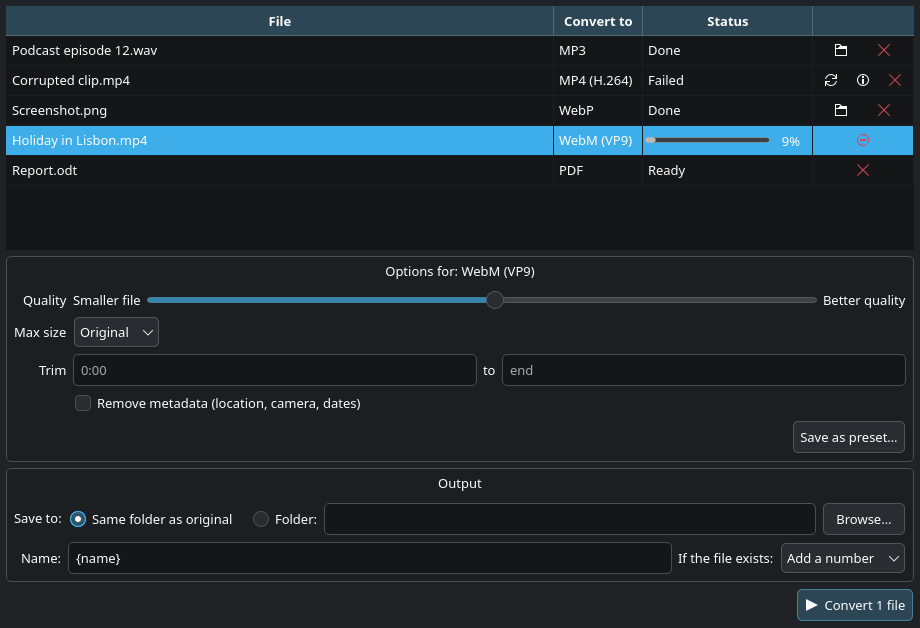
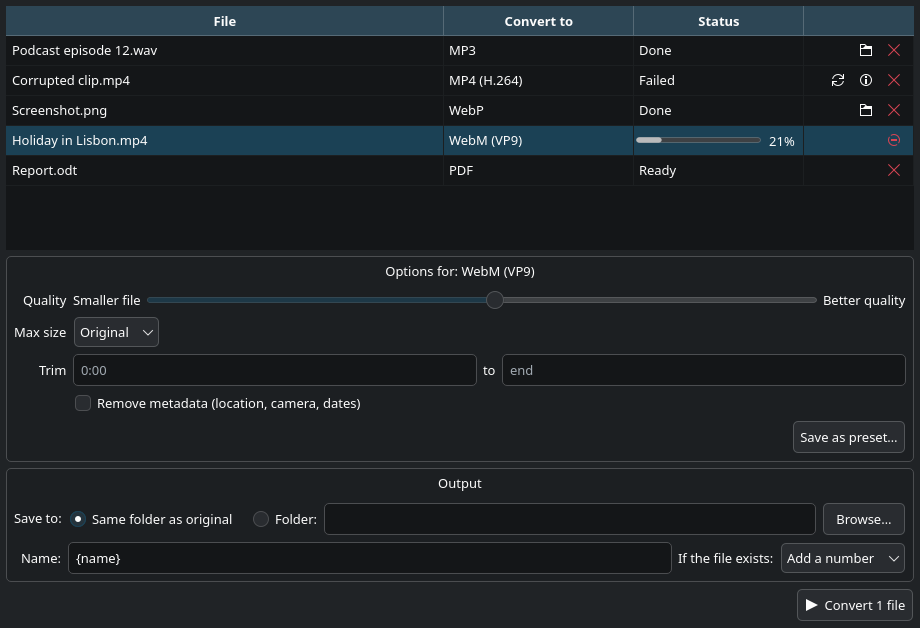
fix: address final review findings
Keep install.sh's Dolphin menus when the app starts, accept every
format Dolphin offers by using the shared MIME database, fail trims
that start past the end instead of trashing the original, and draw row
buttons in a delegate so adding thousands of files no longer freezes
the window.

diff --git a/fileconverter/gui/main_window.py b/fileconverter/gui/main_window.py
@@ -1,11 +1,11 @@
 """The File Converter window: queue table, options and output settings."""
 
-from collections.abc import Sequence
+from collections.abc import Callable, Sequence
 from dataclasses import replace
 from datetime import date
 from pathlib import Path
 
-from PySide6.QtCore import QModelIndex, Qt
+from PySide6.QtCore import QEvent, QModelIndex, QRect, Qt
 from PySide6.QtGui import QAction, QGuiApplication, QIcon, QStandardItem, QStandardItemModel
 from PySide6.QtWidgets import (QAbstractItemView, QApplication, QButtonGroup, QComboBox,
                                QDialog, QDialogButtonBox, QFileDialog, QFormLayout, QGroupBox,
@@ -13,7 +13,7 @@ from PySide6.QtWidgets import (QAbstractItemView, QApplication, QButtonGroup, QC
                                QMainWindow, QMessageBox, QPlainTextEdit, QPushButton,
                                QRadioButton, QSizePolicy,
                                QStackedWidget, QStyle, QStyledItemDelegate,
-                               QStyleOptionProgressBar, QTableView, QToolBar, QToolButton,
+                               QStyleOptionProgressBar, QTableView, QToolBar, QToolTip,
                                QVBoxLayout, QWidget)
 
 from .. import naming
@@ -89,6 +89,45 @@ class _ProgressDelegate(QStyledItemDelegate):
         QApplication.style().drawControl(QStyle.CE_ProgressBar, bar, painter)
 
 
+class _ActionsDelegate(QStyledItemDelegate):
+    """Row buttons drawn by the delegate. Real widgets per row made every
+    insert re-lay out all rows, so big folders took minutes to add."""
+
+    SIZE = 28
+
+    def __init__(self, window: "MainWindow"):
+        super().__init__(window)
+        self.window = window
+
+    def _buttons(self, rect: QRect, index: QModelIndex):
+        actions = self.window.row_actions(self.window.model.job_id(index.row()))
+        right = rect.right() - 4
+        for n, action in enumerate(reversed(actions)):
+            x = right - (n + 1) * self.SIZE
+            yield QRect(x, rect.center().y() - self.SIZE // 2, self.SIZE, self.SIZE), action
+
+    def paint(self, painter, option, index):
+        super().paint(painter, option, index)
+        for rect, (_, icon, _) in self._buttons(option.rect, index):
+            QIcon.fromTheme(icon).paint(painter, rect.adjusted(6, 6, -6, -6))
+
+    def editorEvent(self, event, model, option, index):
+        if event.type() == QEvent.MouseButtonRelease and event.button() == Qt.LeftButton:
+            for rect, (_, _, slot) in self._buttons(option.rect, index):
+                if rect.contains(event.position().toPoint()):
+                    slot()
+                    return True
+        return super().editorEvent(event, model, option, index)
+
+    def helpEvent(self, event, view, option, index):
+        if event.type() == QEvent.ToolTip:
+            for rect, (tip, _, _) in self._buttons(option.rect, index):
+                if rect.contains(event.pos()):
+                    QToolTip.showText(event.globalPos(), tip, view)
+                    return True
+        return super().helpEvent(event, view, option, index)
+
+
 class MainWindow(QMainWindow):
     def __init__(self, queue: JobQueue, store: Store, tools: dict[str, bool],
                  parent: QWidget | None = None):
@@ -126,14 +165,15 @@ class MainWindow(QMainWindow):
                                    | QAbstractItemView.EditKeyPressed)
         self.table.setItemDelegateForColumn(COL_PRESET, _PresetDelegate(self))
         self.table.setItemDelegateForColumn(COL_STATUS, _ProgressDelegate(self))
+        self.table.setItemDelegateForColumn(COL_ACTIONS, _ActionsDelegate(self))
         self.table.verticalHeader().hide()
         header = self.table.horizontalHeader()
         header.setSectionResizeMode(COL_FILE, QHeaderView.Stretch)
-        for col in (COL_PRESET, COL_ACTIONS):
-            header.setSectionResizeMode(col, QHeaderView.ResizeToContents)
-        # Fixed width: sizing to the text would squash the progress bar.
-        header.setSectionResizeMode(COL_STATUS, QHeaderView.Fixed)
-        self.table.setColumnWidth(COL_STATUS, 170)
+        # Fixed widths: ResizeToContents re-measures every row on each insert,
+        # which froze the window for minutes on folders of thousands of files.
+        for col, width in ((COL_PRESET, 190), (COL_STATUS, 170), (COL_ACTIONS, 110)):
+            header.setSectionResizeMode(col, QHeaderView.Fixed)
+            self.table.setColumnWidth(col, width)
         self.table.setMinimumHeight(220)
 
         hint = QLabel("Drop files or folders here, or click “Add files…”",
@@ -429,37 +469,31 @@ class MainWindow(QMainWindow):
     # Queue events
 
     def _job_added(self, job_id: int) -> None:
-        self._update_actions(job_id)
+        self._shown_state[job_id] = self.queue.job(job_id).state
         self._refresh()
 
     def _job_changed(self, job_id: int) -> None:
-        if self.queue.job(job_id).state is not self._shown_state.get(job_id):
-            self._update_actions(job_id)
+        state = self.queue.job(job_id).state
+        if state is not self._shown_state.get(job_id):
+            self._shown_state[job_id] = state
             self._refresh()
 
-    def _update_actions(self, job_id: int) -> None:
+    def row_actions(self, job_id: int) -> list[tuple[str, str, Callable[[], None]]]:
+        """Buttons for a row as (tooltip, icon name, action), left to right."""
         job = self.queue.job(job_id)
-        self._shown_state[job_id] = job.state
-        cell = QWidget()
-        row = QHBoxLayout(cell)
-        row.setContentsMargins(2, 0, 2, 0)
-
-        def button(text: str, icon: str, slot, tip: str = "") -> None:
-            b = QToolButton(text=text, icon=QIcon.fromTheme(icon), toolTip=tip or text,
-                            autoRaise=True)
-            b.clicked.connect(slot)
-            row.addWidget(b)
-
+        actions = []
         if job.state is JobState.DONE:
-            button("Open", "document-open-folder", lambda: show_in_folder(job.outputs[0]),
-                   "Show in folder")
+            actions.append(("Show in folder", "document-open-folder",
+                            lambda: show_in_folder(job.outputs[0])))
         elif job.state is JobState.FAILED:
-            button("Retry", "view-refresh", lambda: self.queue.retry(job_id))
-            button("?", "help-about", lambda: self.show_log(job_id), "Show error details")
-        active = job.state in (JobState.WAITING, JobState.RUNNING)
-        button("✕", "process-stop" if active else "list-remove",
-               lambda: self.queue.remove(job_id), "Cancel" if active else "Remove")
-        self.table.setIndexWidget(self.model.index(self.model.row_of(job_id), COL_ACTIONS), cell)
+            actions.append(("Retry", "view-refresh", lambda: self.queue.retry(job_id)))
+            actions.append(("Show error details", "help-about",
+                            lambda: self.show_log(job_id)))
+        if job.state in (JobState.WAITING, JobState.RUNNING):
+            actions.append(("Cancel", "process-stop", lambda: self.queue.cancel(job_id)))
+        else:
+            actions.append(("Remove", "list-remove", lambda: self.queue.remove(job_id)))
+        return actions
 
     def _refresh(self) -> None:
         self.stack.setCurrentIndex(1 if self.model.rowCount() else 0)

diff --git a/tests/test_main_window.py b/tests/test_main_window.py
@@ -31,6 +31,19 @@ def test_folder_expands_recursively(window, tmp_path, _png):
     assert [window.queue.job(i).src.name for i in ids] == ["x.png"]
 
 
+def test_large_folder_adds_quickly(window, tmp_path):
+    import time
+    folder = tmp_path / "many"
+    folder.mkdir()
+    for n in range(800):
+        (folder / f"img{n:04d}.png").touch()
+    window.show()
+    started = time.monotonic()
+    ids = window.add_files([folder])
+    elapsed = time.monotonic() - started
+    assert len(ids) == 800 and elapsed < 4, f"took {elapsed:.1f} s"
+
+
 def test_preset_argument_starts_immediately(qtbot, window, sample_wav):
     with qtbot.waitSignal(window.queue.drained, timeout=30_000):
         [jid] = window.add_files([sample_wav], "audio:flac", start=True)
@@ -147,9 +160,24 @@ def test_failed_job_shows_retry(qtbot, window, tmp_path):
     bad = tmp_path / "bad.mp4"
     bad.write_bytes(b"junk")
     with qtbot.waitSignal(window.queue.drained, timeout=30_000):
-        window.add_files([bad], "video:mp4", start=True)
+        [jid] = window.add_files([bad], "video:mp4", start=True)
     assert window.model.data(window.model.index(0, 2)) == "Failed"
     assert window.model.data(window.model.index(0, 2), Qt.ToolTipRole)
+    assert [name for name, _, _ in window.row_actions(jid)] == ["Retry", "Show error details",
+                                                               "Remove"]
+
+
+def test_row_buttons_respond_to_clicks(qtbot, window, sample_wav):
+    from PySide6.QtCore import QPoint
+    from PySide6.QtTest import QTest
+
+    [jid] = window.add_files([sample_wav])
+    window.show()
+    assert [name for name, _, _ in window.row_actions(jid)] == ["Remove"]
+    rect = window.table.visualRect(window.model.index(0, 3))
+    target = QPoint(rect.right() - 10, rect.center().y())  # rightmost button: Remove
+    QTest.mouseClick(window.table.viewport(), Qt.LeftButton, pos=target)
+    assert window.queue.jobs() == []
 
 
 def test_close_while_converting_asks_then_stops(qtbot, window, long_mp4, monkeypatch):

diff --git a/fileconverter/filetypes.py b/fileconverter/filetypes.py
@@ -1,12 +1,13 @@
 """Which kind of input a file is, and the MIME types each kind covers."""
 
-import mimetypes
 from pathlib import Path
+
+from PySide6.QtCore import QMimeDatabase, QMimeType
 
 KINDS = ("audio", "video", "image", "document", "spreadsheet", "presentation", "pdf")
 
-# Checked before mimetypes: office formats have no common MIME prefix, and
-# some media types are missing from Python's table on some systems.
+# Common extensions, checked before the MIME database for speed and so the
+# usual formats work even where shared-mime-info is incomplete.
 _EXTENSIONS = {
     **dict.fromkeys(("doc", "docx", "odt", "rtf"), "document"),
     **dict.fromkeys(("xls", "xlsx", "ods", "csv"), "spreadsheet"),
@@ -46,14 +47,23 @@ MIME_TYPES = {
 }
 
 
+def _matches(mime: QMimeType, pattern: str) -> bool:
+    names = [mime.name(), *mime.allAncestors()]
+    if pattern.endswith("/*"):
+        return any(n.startswith(pattern[:-1]) for n in names)
+    return pattern in names
+
+
 def kind_of(path: Path) -> str | None:
-    """Return the input kind of ``path`` from its name, or None if unsupported."""
+    """Return the input kind of ``path``, or None if unsupported."""
     kind = _EXTENSIONS.get(path.suffix.lower().lstrip("."))
     if kind:
         return kind
-    mime, _ = mimetypes.guess_type(path.name)
-    if mime:
-        prefix = mime.split("/", 1)[0]
-        if prefix in ("audio", "video", "image"):
-            return prefix
+    # The same shared-mime-info database Dolphin uses to pick the menus, so
+    # anything it offers to convert (.m4b, camera RAW, ...) is accepted.
+    mode = QMimeDatabase.MatchDefault if path.is_file() else QMimeDatabase.MatchExtension
+    mime = QMimeDatabase().mimeTypeForFile(str(path), mode)
+    for kind in KINDS:
+        if any(_matches(mime, pattern) for pattern in MIME_TYPES[kind]):
+            return kind
     return None

diff --git a/tests/test_menus.py b/tests/test_menus.py
@@ -47,7 +47,16 @@ def test_hidden_presets_left_out(tmp_path):
     assert "audio:wav" not in render_menus(st.all_presets())["fileconverter-audio.desktop"]
 
 
-def test_sync_writes_executable_files_then_cleans_up(tmp_path):
+def _system_dir(tmp_path, with_copy):
+    system = tmp_path / "system"
+    if with_copy:
+        subprocess.run([sys.executable, "-m", "fileconverter.menus",
+                        str(system / "kio" / "servicemenus")], check=True)
+    return system
+
+
+def test_sync_writes_executable_files_then_cleans_up(tmp_path, monkeypatch):
+    monkeypatch.setenv("XDG_DATA_DIRS", str(_system_dir(tmp_path, with_copy=True)))
     st = load(tmp_path / "p.json")
     out = tmp_path / "menus"
     st.add_user_preset("Podcast", BUILTIN_BY_ID["audio:mp3"], {})
@@ -57,6 +66,16 @@ def test_sync_writes_executable_files_then_cleans_up(tmp_path):
     st.user_presets.clear()
     sync_user_menus(st, out)
     assert not list(out.glob("fileconverter-*.desktop"))
+
+
+def test_sync_keeps_menus_when_there_is_no_system_copy(tmp_path, monkeypatch):
+    # install.sh users: the user directory holds the only copy of the menus.
+    monkeypatch.setenv("XDG_DATA_DIRS", str(_system_dir(tmp_path, with_copy=False)))
+    out = tmp_path / "menus"
+    subprocess.run([sys.executable, "-m", "fileconverter.menus", str(out)], check=True)
+    sync_user_menus(load(tmp_path / "p.json"), out)
+    assert (out / "fileconverter-open.desktop").exists()
+    assert (out / "fileconverter-video.desktop").exists()
 
 
 def test_write_removes_stale_files(tmp_path):

diff --git a/fileconverter/queue.py b/fileconverter/queue.py
@@ -14,7 +14,7 @@ from PySide6.QtCore import QFile, QObject, QProcess, QTimer, Signal
 
 from . import naming
 from .commands import build, parse_duration, parse_progress, probe_argv
-from .options import Options
+from .options import Options, format_time
 from .presets import Preset
 
 
@@ -292,6 +292,14 @@ class JobQueue(QObject):
             self._finish(jid, JobState.CANCELLED)
         elif probe:
             run.duration = parse_duration(run.stdout) if code == 0 else None
+            start = Options.from_dict(job.preset.options).trim_start or 0
+            if run.duration is not None and start >= run.duration:
+                # ffmpeg would "succeed" with an empty file; with Trash on
+                # that would cost the user the original.
+                job.error = (f"Trim start ({format_time(start)}) is past the end of the "
+                             f"file ({format_time(run.duration)})")
+                self._finish(jid, JobState.FAILED)
+                return
             self._start_process(jid, run.argv, probe=False)
         elif code != 0:
             lines = [ln for ln in job.log.splitlines() if ln.strip()]

diff --git a/fileconverter/menus.py b/fileconverter/menus.py
@@ -92,10 +92,21 @@ def user_menu_dir() -> Path:
     return Path(base) / "kio" / "servicemenus"
 
 
+def _system_menus_installed() -> bool:
+    dirs = os.environ.get("XDG_DATA_DIRS") or "/usr/local/share:/usr/share"
+    return any((Path(d) / "kio" / "servicemenus" / "fileconverter-open.desktop").exists()
+               for d in dirs.split(":") if d)
+
+
 def sync_user_menus(st: Store, directory: Path | None = None) -> None:
-    """Shadow the system menus with the user's presets, or remove the shadow."""
+    """Write the user's menus, or drop them when the packaged ones suffice.
+
+    With a system-wide install (the AUR package) user copies only exist to
+    shadow it with custom presets. A per-user install (install.sh) has no
+    system copy, so the user directory must always hold the full set.
+    """
     directory = directory or user_menu_dir()
-    if st.is_customized():
+    if st.is_customized() or not _system_menus_installed():
         write_menus(directory, render_menus(st.all_presets()))
     else:
         for path in directory.glob("fileconverter-*.desktop"):

diff --git a/tests/test_queue.py b/tests/test_queue.py
@@ -95,6 +95,16 @@ def test_trash_originals_after_success(qtbot, make_queue, sample_wav, tmp_path, 
     assert trashed == [sample_wav]
 
 
+def test_trim_past_end_fails_and_keeps_original(qtbot, make_queue, sample_wav, trashed):
+    q = make_queue()
+    preset = replace(BUILTIN_BY_ID["audio:mp3"], options={"quality": 78, "trim_start": 600})
+    jid = q.add(sample_wav, "audio", preset, replace(SAME_FOLDER, trash_originals=True))
+    run_all(q, qtbot)
+    job = q.job(jid)
+    assert job.state is JobState.FAILED and "past the end" in job.error
+    assert trashed == [] and not sample_wav.with_suffix(".mp3").exists()
+
+
 def test_unwritable_folder_fails_cleanly(qtbot, make_queue, sample_wav, tmp_path):
     ro = tmp_path / "ro"
     ro.mkdir()

diff --git a/tests/test_presets.py b/tests/test_presets.py
@@ -28,6 +28,9 @@ def test_ext_maps_aac_to_m4a():
     ("a.MP3", "audio"), ("b.mkv", "video"), ("c.HEIC", "image"), ("d.docx", "document"),
     ("e.rtf", "document"), ("f.csv", "spreadsheet"), ("g.pptx", "presentation"),
     ("h.pdf", "pdf"), ("notes.txt", None), ("noext", None),
+    # Formats Dolphin's audio/*, video/*, image/* menus offer that no extension table lists.
+    ("book.m4b", "audio"), ("IMG_0001.CR2", "image"), ("raw.dng", "image"),
+    ("dvd.vob", "video"), ("track.dsf", "audio"),
 ])
 def test_kind_of(name, kind):
     assert kind_of(Path(name)) == kind
